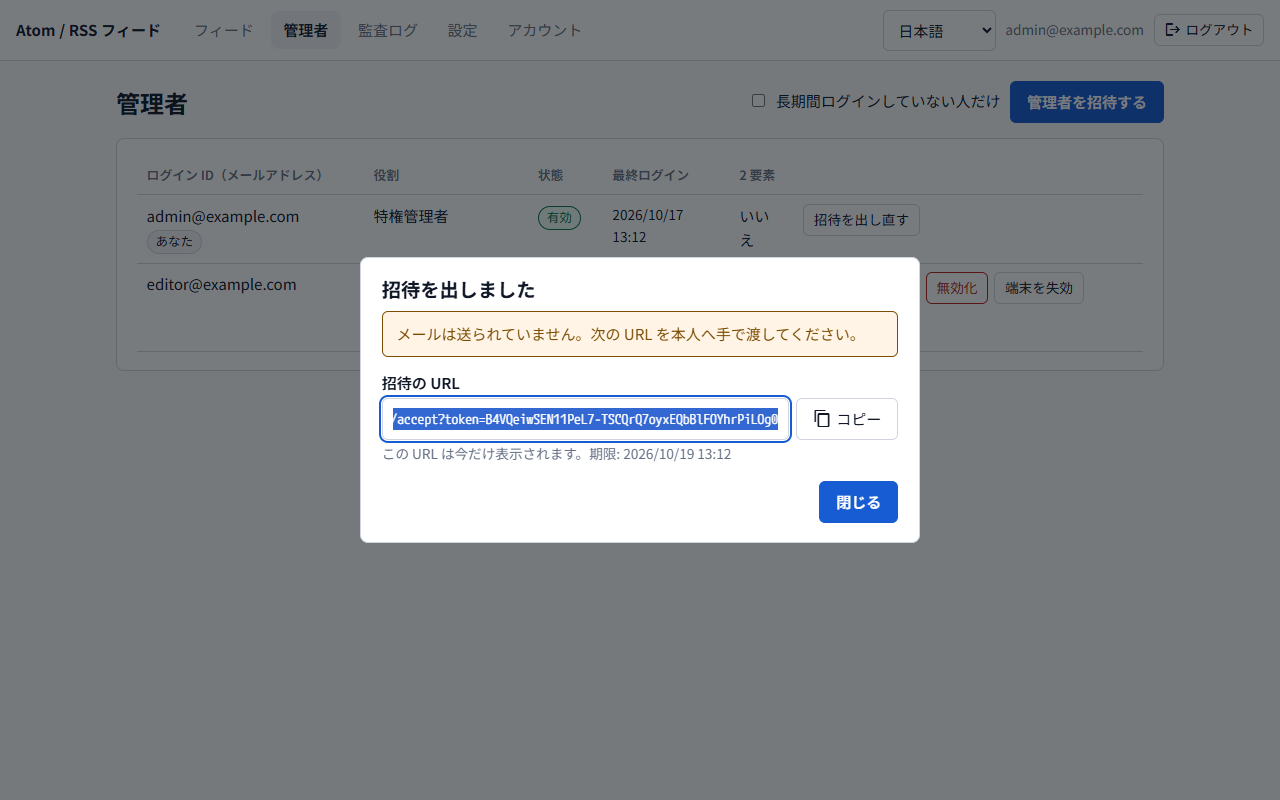
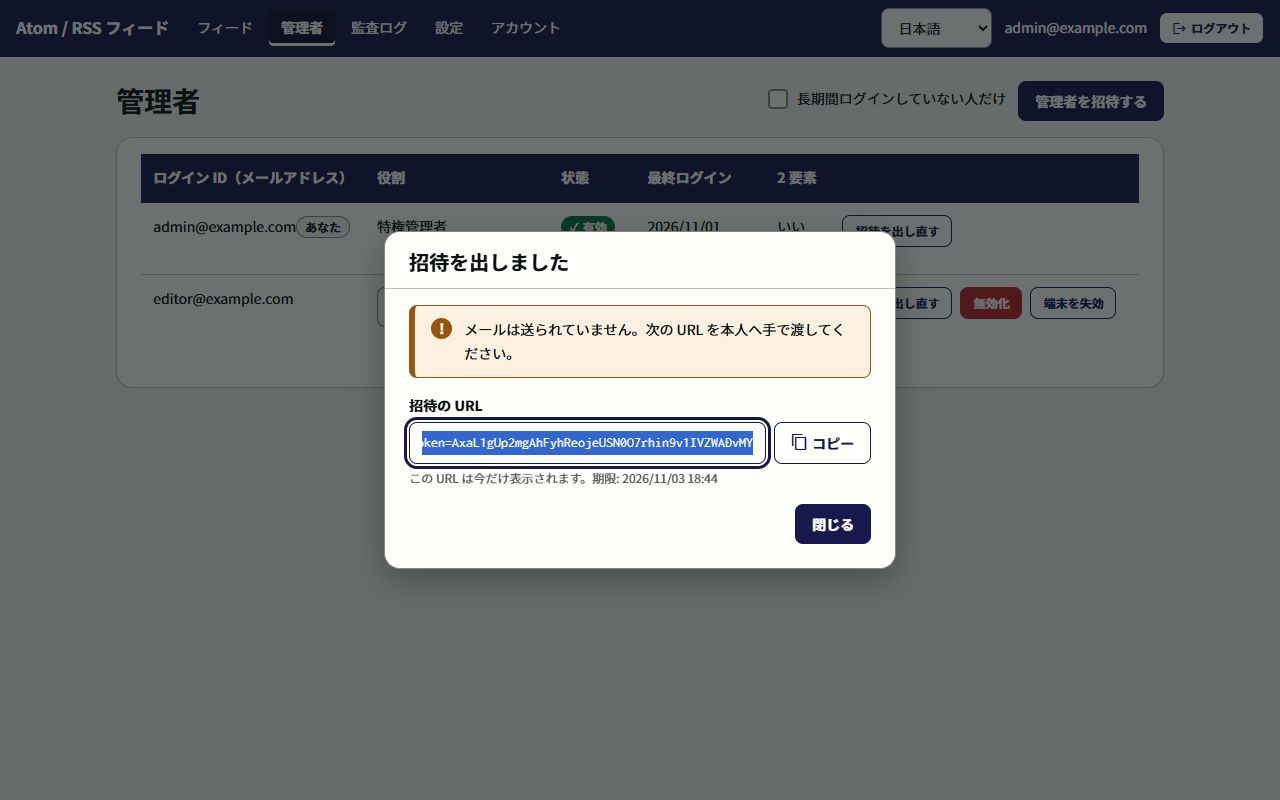
管理画面の写しを DesignReference 基準の配色・書体で撮り直す
tools/screenshots で 23 枚を撮り直した（サンプルデータのみ）。撮影の番号が詰まったため、旧い 23・24 番を消して 22・23 番に改め、一覧の参照と見出し（配色の写しは無い）を直した。

Changed region(s): [[0.0938, 0.1875, 0.9062, 0.75], [0.0, 0.0, 1.0, 0.1562], [0.125, 0.3438, 0.25, 0.4062]]

diff --git a/_documents/管理画面-画面の写し一覧.md b/_documents/管理画面-画面の写し一覧.md
@@ -34,7 +34,7 @@ Pleasanter は偽物（記事 3 件を返す小さな HTTP サーバ）に向け
 | 管理者の招待（役割を選ぶ） | ![管理者-招待](画面の写し/09-管理者-招待.png) |
 | 招待を出した（メールが送れなかったので、URL を手で渡す） | ![管理者-招待を出した](画面の写し/10-管理者-招待を出した.png) |
 | 管理者の一覧（状態・最終ログイン・2 要素。無効化・役割・端末の失効・2 要素の解除） | ![管理者-一覧](画面の写し/11-管理者-一覧.png) |
-| 利用者のログイン中の端末（入った方式つき。1 つずつ失効できる） | ![管理者-端末](画面の写し/24-管理者-端末.png) |
+| 利用者のログイン中の端末（入った方式つき。1 つずつ失効できる） | ![管理者-端末](画面の写し/23-管理者-端末.png) |
 | 編集者（Editor）でログインした画面。**権限の無い「管理者」「監査ログ」「設定」は出ない** | ![編集者の画面](画面の写し/13-編集者の画面（権限で出し分け）.png) |
 
 ## 設定・監査ログ
@@ -43,7 +43,7 @@ Pleasanter は偽物（記事 3 件を返す小さな HTTP サーバ）に向け
 | --- | --- |
 | 設定の編集（**外部設定で固定された項目は「固定」と出て変えられない**。秘密は値を返さず、登録済みかどうかだけ） | ![設定-編集中](画面の写し/03-設定-編集中.png) |
 | 設定の保存後 | ![設定-保存後](画面の写し/04-設定-保存後.png) |
-| 設定の「SAML ログイン」「Pleasanter のログイン」の群（IdP へ登録する URL を出す。Pleasanter は接続の試験ができる） | ![設定-SAML](画面の写し/23-設定-SAML.png) |
+| 設定の「SAML ログイン」「Pleasanter のログイン」の群（IdP へ登録する URL を出す。Pleasanter は接続の試験ができる） | ![設定-SAML](画面の写し/22-設定-SAML.png) |
 | 監査ログ（失敗・操作で絞り込める） | ![監査ログ](画面の写し/14-監査ログ.png) |
 
 ## アカウント・2 要素
@@ -54,7 +54,7 @@ Pleasanter は偽物（記事 3 件を返す小さな HTTP サーバ）に向け
 | 復旧コード（**この画面を閉じると二度と出ない**） | ![2要素-復旧コード](画面の写し/16-2要素-復旧コード.png) |
 | アカウント（パスワード変更・2 要素・ログイン中の端末） | ![アカウント](画面の写し/17-アカウント.png) |
 
-## 言語・画面幅・配色
+## 言語・画面幅
 
 | 画面 | 写し |
 | --- | --- |

diff --git a/tools/screenshots/README.md b/tools/screenshots/README.md
@@ -25,4 +25,5 @@ node capture.mjs
 - ブラウザは**入っている Edge / Chrome を使う**（ブラウザのダウンロードはしない）。見つからなければ落ちる。
 - 2 要素の数字は、スクリプトが RFC 6238 で計算する（認証アプリの代わり）。同じ 30 秒の枠の数字は二度通らない仕様なので、ログインの前に次の枠まで待つ（30 秒ほど余計にかかる）。
 - 写しは `_documents/画面の写し/` へ出る（既存のものは上書き）。
+- 写しの番号は撮る順に振る。画面を足し引きしたら、残った旧い番号の画像を消し、一覧の参照も直す。
 - 依存（`playwright-core`）は Apache-2.0。**開発専用で、配布物には含まれない**（NOTICE の「開発のみ」）。
